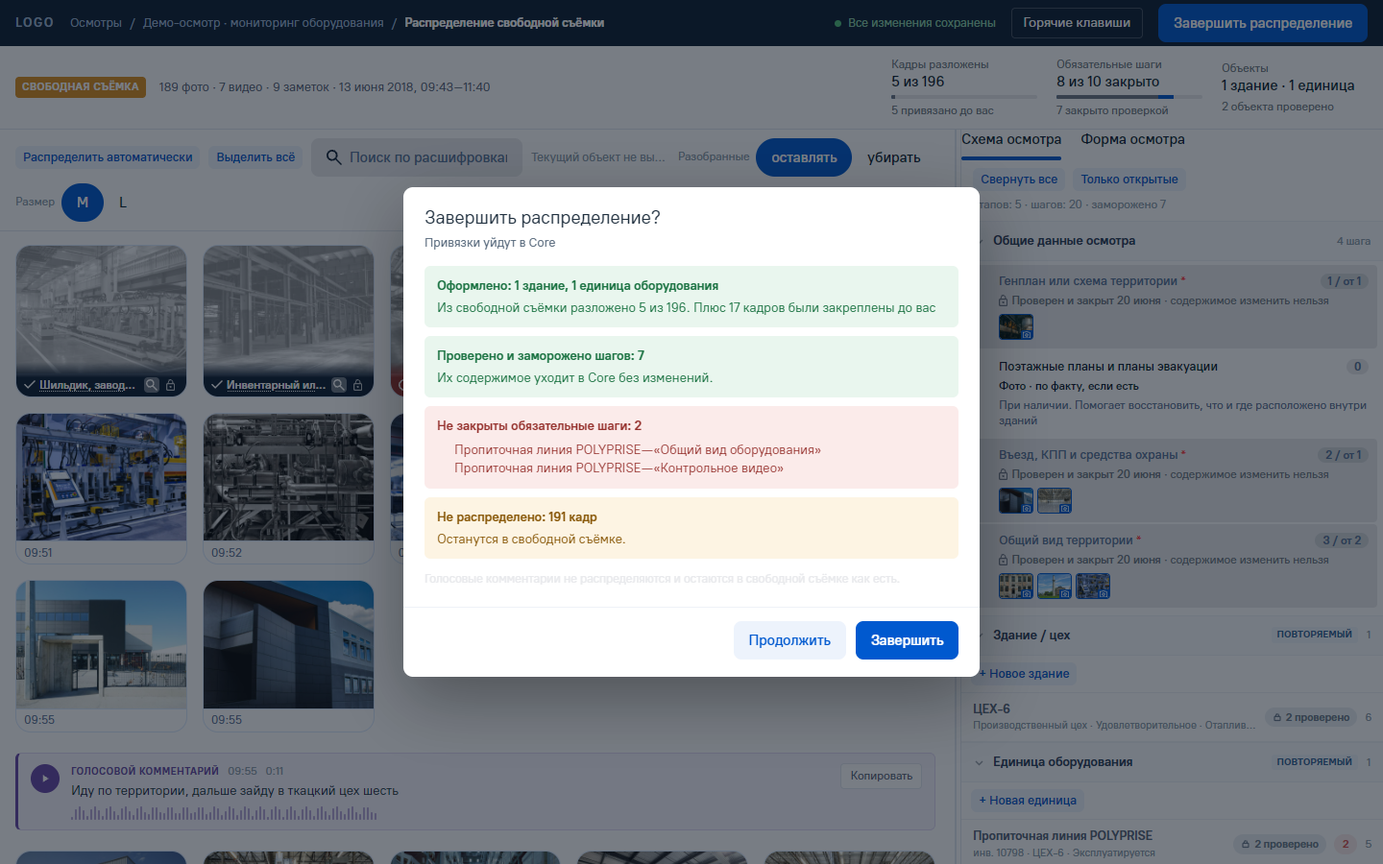
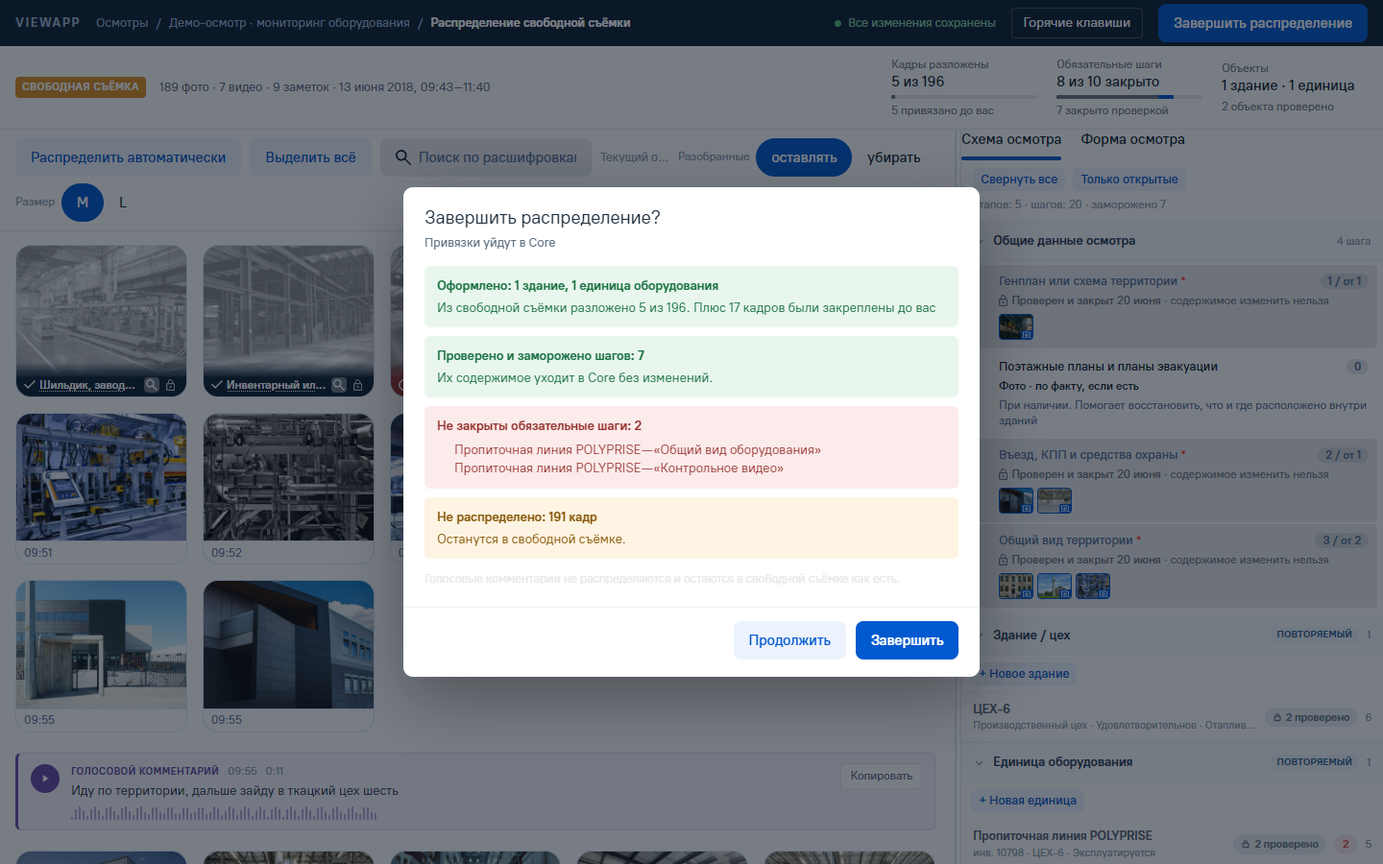
Такт 31, довесок: документы — провенанс «как есть», обезличивание сужено, прототип
- docs/sources/va-9265/va-9265-v17.html: «VIEWAPP» вместо «LOGO» (оба
  вхождения); «Демо-осмотр» и заглушки кадров остаются.
- free-shoot.md, naming.md: перенесённое как есть — легаси текущей админки,
  взятое через прототип v17; реестр читается как «что ещё на легаси»;
  правило «в одной строке контролов — одна высота»; строка итога о тулбаре
  — по замеру.
- Формулировки обезличивания сужены до имени клиента и кадров осмотра:
  free-shoot.md, naming.md, chat-protocol.md, handoff.md; themes.md и
  page-statuses.md — как до 9be8262.
- free-shoot-page-*.png пересняты.

Changed region(s): [[0.0, 0.0, 0.4688, 0.0311], [0.0312, 0.1556, 0.4688, 0.1867]]

diff --git a/docs/sources/va-9265/va-9265-v17.html b/docs/sources/va-9265/va-9265-v17.html
@@ -3,7 +3,7 @@
 <head>
 <meta charset="utf-8">
 <meta name="viewport" content="width=device-width,initial-scale=1">
-<title>LOGO · Распределение свободной съёмки</title>
+<title>VIEWAPP · Распределение свободной съёмки</title>
 <style>
 :root{
   --navy-900:#0E1E33;--navy-800:#1B2E47;--navy-700:#2B415A;--navy-600:#3A5578;
@@ -480,7 +480,7 @@ body.marq .card{cursor:crosshair}
 <body>
 <div class="app">
   <div class="topbar">
-    <span class="logo">LOGO</span>
+    <span class="logo">VIEWAPP</span>
     <div class="crumbs"><span>Осмотры</span><span>/</span><span>Демо-осмотр · мониторинг оборудования</span><span>/</span><b>Распределение свободной съёмки</b></div>
     <div style="flex:1"></div>
     <div class="saved" id="saveState"><span class="dot"></span><span>Все изменения сохранены</span></div>

diff --git a/docs/free-shoot.md b/docs/free-shoot.md
@@ -14,8 +14,7 @@
 **Прототип в репозитории — обезличенная копия**, решение владельца 2026-09-23; замеры части 1 сняты
 с исходной версии `c8aa1a0`, геометрия и стили в копии не менялись. В копии встроенные кадры
 (208 превью, 200×150 и четыре 150×200) заменены однотонными заглушками `#DEE5ED` той же пропорции,
-бренд-имя в логотипе и заголовке → «LOGO», имя клиента → «Демо-осмотр»; логика, разметка, CSS и
-остальные тексты те же.
+имя клиента → «Демо-осмотр»; логика, разметка, CSS и остальные тексты те же. «VIEWAPP» — название продукта, обезличивания не требует (решение владельца 2026-09-23, довесок такта 31).
 Скриншоты `free-shoot-*.png` и пары `free-shoot-pair-*.png` пересняты с копии под прежними именами.
 
 **Мастеров в Figma у этих компонентов нет.** Провенанс значения записывается как «прототип v17,
@@ -722,15 +721,15 @@ defineProps<{
 
 ### Довесок — изображения и обезличивание (решение владельца 2026-09-23)
 
-Репо остаётся публичным; боевые кадры осмотра, имя клиента и бренд в текущей версии не лежат.
+Репо остаётся публичным; боевые кадры осмотра и имя клиента в текущей версии не лежат. «VIEWAPP» — название продукта, обезличивания не требует (решение владельца 2026-09-23, довесок такта 31).
 Историю коммитов не переписывали.
 
 | Что | Сделано |
 |---|---|
 | кадры стенда `/free-shoot` и раздела `/compare` | 24 несвязные фотографии с Unsplash (Unsplash License), 800×600 — кроп `w=800&h=600&fit=crop` на стороне Unsplash; здания, цеха, склады, оборудование. Файлы `public/free-shoot/demo-01…24.jpg`, авторы и ссылки — `public/free-shoot/CREDITS.md`. Структура кадров — время, тип, длительность — по-прежнему из `window.VA_FRAMES`; кадру прототипа сопоставлен снимок по порядку, видео — фото-превью с признаком видео |
-| прототип `sources/va-9265/va-9265-v17.html` | обезличенная копия: 208 встроенных превью → однотонные JPEG `#DEE5ED` той же пропорции (200×150, четыре 150×200); бренд-имя → «LOGO», имя клиента → «Демо-осмотр». Проверено headless: три набора «Состояние осмотра» открываются и считают те же числа (208 / 196 / 196 кадров, в «Частично проверен» 7 замороженных шагов и 1 «Повторить»), автораспределение даёт 173 предложенных кадра и 44 объекта, полосу приёмки и сводку |
+| прототип `sources/va-9265/va-9265-v17.html` | обезличенная копия: 208 встроенных превью → однотонные JPEG `#DEE5ED` той же пропорции (200×150, четыре 150×200); имя клиента → «Демо-осмотр». Проверено headless: три набора «Состояние осмотра» открываются и считают те же числа (208 / 196 / 196 кадров, в «Частично проверен» 7 замороженных шагов и 1 «Повторить»), автораспределение даёт 173 предложенных кадра и 44 объекта, полосу приёмки и сводку |
 | скриншоты | `free-shoot-*.png` части 1 и пары `free-shoot-pair-*.png` пересняты с копии под прежними именами; скриншоты стенда `free-shoot-stand-*.png` — с новыми кадрами |
-| бренд-имя в коде кита | местозаполнитель логотипа в `admin.vue` и шапке «Моих осмотров» → «LOGO»; имя статусной модели на стенде «Статусы» и в `page-statuses.md` → «LOGO eng»; комментарий темы в `tailwind.css`, строка в `themes.md` |
+| название продукта | ~~замена «VIEWAPP» на «LOGO»~~ в `admin.vue`, шапке «Моих осмотров», модели «VIEWAPP eng», комментарии темы, `themes.md` и прототипе — **отменена довеском такта 31**: ошибка формулировки чата, «VIEWAPP» — название продукта, обезличивания не требует (решение владельца 2026-09-23, довесок такта 31) |
 
 Маршрута `/free-shoot/states` на момент довеска в коде не было — довесок применён к единственному стенду `/free-shoot`. С такта 31 матрицы живут на `/free-shoot/states`, экран — на `/free-shoot`.
 
@@ -744,6 +743,8 @@ defineProps<{
 по `naming.md`, при сомнении — как есть. Каждый перенесённый блок несёт `data-asis`; `?asis=mark`
 обводит их пунктиром с подписью.
 
+**Провенанс «как есть».** Перенесённое как есть — оформление текущей админки (легаси), взятое через прототип v17: прототип свёрстан в стилистике действующей админки. Реестр покрытия поэтому читается как «что на экране ещё на легаси»; строка «кит» или «новый» — уже на ките 2. Довесок к такту 31, решение владельца 2026-09-23.
+
 «Кит» — компонент, существовавший до такта 30; «новый» — компонент такта 30; «как есть» —
 разметка и CSS прототипа. «Не выведено» — элемент есть в спеке, на экране не показан: у него нет
 данных или его вызывает поведение, которого на стенде нет.
@@ -752,7 +753,7 @@ defineProps<{
 |---|---|---|---|---|
 | 1 | каркас экрана: шапка, подшапка, рабочая зона | §7, §1.5 | как есть | минимальная ширина 1280 — `min-w-320` |
 | 2 | шапка 48 | §7 | как есть | тёмная полоса прототипа |
-| 3 | логотип «LOGO» | §7 | как есть | местозаполнитель, как в `admin.vue` |
+| 3 | логотип «VIEWAPP» | §7 | как есть | местозаполнитель, как в `admin.vue` |
 | 4 | хлебные крошки | §7 | как есть | `Breadcrumb` кита — на светлой поверхности; подачи на тёмной шапке нет |
 | 5 | индикатор автосохранения | §17.2 | как есть | — |
 | 6 | «Горячие клавиши» | §7 | как есть | у `Button` нет подачи для тёмной поверхности |
@@ -765,9 +766,9 @@ defineProps<{
 | 13 | «Кадры разложены», «Обязательные шаги» | §7.1–7.2 | новый: `ProgressStat` + `Progress` | — |
 | 14 | «Объекты» | §7 | новый: `ProgressStat` | без полосы |
 | 15 | тулбар ленты: контейнер | §7 | как есть | — |
-| 16 | «Распределить автоматически» | §12 | кит: `Button` | фиолетовый акцент прототипа не перенесён — роль «действие» |
-| 17 | «Выделить всё» | §10.1 | кит: `Button` | — |
-| 18 | поиск | §8.6 | кит: `Input` | высота 40 против 28 прототипа — тулбар переносится во вторую строку |
+| 16 | «Распределить автоматически» | §12 | кит: `Button` | размер md 40 — одна высота со строкой тулбара; фиолетовый акцент прототипа не перенесён — роль «действие» |
+| 17 | «Выделить всё» | §10.1 | кит: `Button` | размер md 40 — одна высота со строкой тулбара |
+| 18 | поиск | §8.6 | кит: `Input` | высота 40, как у кнопок и `Tabs` pill той же строки |
 | 19 | индикатор текущего объекта | §7, §16.2 | как есть | — |
 | 20 | «Разобранные: оставлять / убирать» | §8.2 | кит: `Tabs` pill | роль «переключатель вида», прецедент «Списком / Карточками» |
 | 21 | размер превью M / L | §8.1 | кит: `Tabs` pill | то же |
@@ -832,6 +833,8 @@ defineProps<{
 ## 9. Итог такта 31
 
 Экран `/free-shoot` собран на данных набора «Частично проверен» обезличенного прототипа; матрицы
+
+**Провенанс «как есть».** Перенесённое как есть — оформление текущей админки (легаси), взятое через прототип v17: прототип свёрстан в стилистике действующей админки. Реестр покрытия (раздел 8) поэтому читается как «что на экране ещё на легаси»; строка «кит» или «новый» — уже на ките 2. Довесок к такту 31, решение владельца 2026-09-23.
 компонентов переехали на `/free-shoot/states`. Компоненты, токены и решения такта 30 взяты
 готовыми и не пересобирались. Бизнес-логики нет по прецеденту стендов; работают поведение
 компонентов кита, отметка выделения, переключатели вида и вкладки.
@@ -856,7 +859,7 @@ defineProps<{
 | утечка CSS прототипа в кит | правило `.grow input` рисовало рамку на внутреннем поле `Input` кита; закрыто хвостом `:not([data-slot] *)` у каждого правила | базовый слой проигрывает утилитам только в свойствах, которые утилита задаёт; рамку поле кита не задаёт |
 | раскрытый повтор | при загрузке раскрыт повтор оборудования, в режиме приёмки — первый предложенный | у прототипа после загрузки свёрнуто всё, и строк шагов не видно; это состояние интерфейса, не данных |
 | соответствие кадр → снимок | на экране — по номеру кадра прототипа по кругу 24, на `states` — по порядку списка стенда | у экрана 196 кадров, у `states` — 28 |
-| тулбар в две строки | `Input` кита 40 и `Tabs` pill выше контролов прототипа 28 | видимая разница размерных рядов — её и должен показать экран |
+| тулбар ленты в две строки | правило экрана «в одной строке контролов — одна высота»: кнопки `Button` md, корень `Input` и `Tabs` pill — все 40 (замер после довеска такта 31). На 1440 в первой строке кнопки, поиск и «Разобранные», во второй — «Размер»; на 1280 во вторую уходят оба переключателя. Полоса приёмки: обе кнопки `Button` sm 24, флажок — строка выбора 20 на той же оси (центры совпадают, 89) | контролы кита 40 шире и выше контролов прототипа 28: ширины ленты 990 и 830 на одну строку не хватает |
 | действия окон и плашек | как есть, без обработчиков | бизнес-логики нет |
 | рассинхрон гидрации | высоты волновой формы заметки округлены до 0.1 | сервер и браузер считали синус с разной точностью |
 | подчёркнутое имя объекта в плашке просмотра | как есть | в самом прототипе класс `.obj` у плашки совпадает с классом карточки повтора и наследует её нижнюю линию |

diff --git a/docs/handoff.md b/docs/handoff.md
@@ -70,8 +70,9 @@
 | **29, часть 1** — разбор: боковая модальная панель (Sheet) | документы | сборки нет, стоп-точка. Сняты мастер кита 1 `card` `817:34525` и шапка `modal_cards_header` `864:2747` (close/back), реализации дашборда «Настройка группы» (экран `30957:19544` — панель 642 у правого края во всю высоту, подложка `#000000` 40% литералом), «История изменений» `19751:28905` (прокручивается только тело, полоса `scroll_default` 16), «Настройка таблицы» `19848:46444`, «Экспорт в Excel» `32804:10032` (собран без компонентов кита). Дашборд связан с китом по ключам компонентов. Центрального окна у кита 1 нет — `Dialog` верен своему источнику (Атом `ModalWindow`), с мастером кита 1 не сравним. У Атома Sheet/Drawer нет. Токенов нет на радиус 48, тень 0/4/20 и подложку. Противоречие «кит — без подложки, дашборд — затемняет» — вопрос 35. Решений владельцу — 5. Разбор — `modal-family.md` |
 | **30, часть 1** — разбор: экран «Распределение свободной съёмки» (VA-9265) | документы | сборки нет, стоп-точка. Срочная задача для фронтенда; такт 29, часть 2 запаркован и идёт следом. Источники — прототип v17 и спека, редакция 1, закоммичены в `docs/sources/va-9265/`; мастеров в Figma нет, провенанс «прототип v17, <селектор>» или «спека §N». Замеры — headless Chrome по CDP, состояния выставлены функциями прототипа; 31 скриншот `free-shoot-*.png`. Разобраны `FrameTile`, `StepRow` + `StepThumb`, `ProgressStat` + новая `Progress`: матрицы, пересечение осей шага, токены, черновики API, тексты §18, граница компонента и страницы. Факты: `MediaGalleryItem` md 16:10 против 4:3 прототипа (срез 16.7%); белый текст ни на одной служебной роли кита не дотягивает до 4.5:1; `Progress` и `Command`/`Combobox` в коде не собраны — строки долга описывают дыры. Переполненный шаг: прототип против спеки — вопрос 36. Решений владельцу — 8. Разбор — `free-shoot.md` |
 | **30, часть 2** — сборка трёх компонентов и стенда `/free-shoot` | стенд `/free-shoot` + `/compare` + документы | все восемь решений владельца — по рекомендации разбора. `FrameTile` (`ui/frame-tile/`): `Image` 4:3, радиус 16 и `--muted` от `MediaGalleryItem` md, `Checkbox on-image`, `IconButton sm elevated` с `fullscreen`, плашка на тёмной ступени, сетка `frameTileGridVariants` 176/272 с промежутком 16. `StepRow` + `StepThumb` (`ui/step-row/`): наполненность из чисел, переполнение побеждает (вопрос 36 закрыт), пилюля на геометрии `Badge sm`, хвост «+N», вспышка по смене `flash`. `Progress` + `ProgressStat` (`ui/progress/`): первый прогресс кита, строка долга закрыта частично. Токены `--success-strong`/`--warning-strong`/`--destructive-strong` в обеих темах, `--opacity-dimmed`, `--duration-flash`; глифы `fullscreen`, `photo-camera`. Стенд: матрицы, оси 6 × 4, взаимодействие, фрагмент в сборе, примеры вызова в `<pre>`; оснастка `?state=link|flash|tooltip|drop` и проп `demoHover`. Отклонения от разбора — `free-shoot.md`, раздел 7. `/compare`: раздел без эталона, 137 иконок и 438 текстовых узлов (было 114 / 365), провалов нет. Решений владельцу — 0 |
-| **30, довесок** — обезличивание | стенд `/free-shoot`, `/compare`, источник, скриншоты | решение владельца 2026-09-23: репо публичное, боевые кадры, имя клиента и бренд в текущей версии не лежат; историю не переписывали. Кадры стенда — 24 фото с Unsplash 800×600 (`public/free-shoot/`, авторы в `CREDITS.md`), структура кадров — из `window.VA_FRAMES`. Прототип в `docs/sources/va-9265/` — обезличенная копия (208 превью → заглушки `#DEE5ED`, «LOGO», «Демо-осмотр»), три сценария и автораспределение проверены. Скриншоты части 1 и пары пересняты. Местозаполнитель логотипа в `admin.vue` и «Моих осмотрах» — «LOGO», статусная модель «LOGO eng». `grep` на бренд-имя заглавными и имя клиента — 0. Открыто: строчное имя темы `viewapp` — решение владельца |
+| **30, довесок** — обезличивание | стенд `/free-shoot`, `/compare`, источник, скриншоты | решение владельца 2026-09-23: репо публичное, боевые кадры и имя клиента в текущей версии не лежат; историю не переписывали. Кадры стенда — 24 фото с Unsplash 800×600 (`public/free-shoot/`, авторы в `CREDITS.md`), структура кадров — из `window.VA_FRAMES`. Прототип в `docs/sources/va-9265/` — обезличенная копия (208 превью → заглушки `#DEE5ED`, «Демо-осмотр»), три сценария и автораспределение проверены. Скриншоты части 1 и пары пересняты. `grep` на имя клиента — 0. Замена «VIEWAPP» на «LOGO» (логотип, модель «VIEWAPP eng», прототип) отменена довеском такта 31: название продукта обезличивать не требовалось |
 | **31** — экран «Распределение свободной съёмки» | `/free-shoot` (экран), `/free-shoot/states` (матрицы) | решение владельца 2026-09-23: экран целиком; компонент кита — где роль совпадает по `naming.md`, остальное — разметка и CSS прототипа как есть, чтобы видеть незакрытое. Матрицы такта 30 переехали на `/free-shoot/states` (`git mv`), фрагмент «в сборе» снят. Экран — на данных «Частично проверен» обезличенного прототипа; CSS прототипа — `app/stands/free-shoot/asis.css` (префикс `.va`, хвост `:not([data-slot] *)`, `--va-*`, `@layer base`), компоненты кита внутри — `.kit-island`; разметка окон снята с самого прототипа в `prototype-data.json`; каждый перенесённый блок — `data-asis`, `?asis=mark` обводит. Оснастка: `?state=link\|flash\|tooltip\|drop`, `?selected=demo`, `?open=assign\|viewer-*\|wand\|progress\|summary\|finish`, `?view=review`, `?tab=form`, `?asis=mark`. Реестр покрытия (`free-shoot.md`, раздел 8): 58 элементов, китом 23, как есть 35; рекомендация — «карточка повтора». Найдена и закрыта утечка CSS прототипа в `Input` кита. Демо-имена моделей — «Тестовая модель 1–3», «Тестовый тип». `/compare` без изменений: 137 / 438. Решений владельцу — 0 |
+| **31, довесок** — название, тулбар, подписи, провенанс | `/free-shoot` + документы | (решения владельца 2026-09-23): «VIEWAPP» возвращён — название продукта обезличивания не требовало, замена на «LOGO» была ошибкой формулировки чата; тулбар ленты — `Button` md, строка одной высоты 40 (кнопки, `Input`, `Tabs` pill); подписи `?asis=mark` вынесены над пунктиром; перенесённое как есть названо легаси текущей админки, взятым через прототип, — реестр покрытия читается как «что ещё на легаси». `/compare` 137 / 438, grep на имя клиента — 0 |
 
 ### Такт 20 закрыт: паттерн закреплён
 

diff --git a/docs/naming.md b/docs/naming.md
@@ -492,7 +492,7 @@ rososmotr своей поверхности под окно нет, и роль 
 License), 800×600, 4:3 — кроп на стороне Unsplash; файлы и авторы — `public/free-shoot/` и
 `CREDITS.md` там же. Структура кадров — время съёмки, тип, длительность, привязки — из
 `window.VA_FRAMES` прототипа; изображения прототипа в репозиторий не кладутся: репо публичное,
-боевые кадры осмотра, имя клиента и бренд в текущей версии не лежат (решение владельца 2026-09-23).
+боевые кадры осмотра и имя клиента в текущей версии не лежат (решение владельца 2026-09-23).
 Кадру-видео достаётся фото-превью с признаком видео. Как демо-логотипы такта 26.
 
 ### Такт 31: экран «Распределение свободной съёмки» и перенос «как есть»
@@ -501,6 +501,8 @@ License), 800×600, 4:3 — кроп на стороне Unsplash; файлы и
 |---|---|---|
 | `/free-shoot` | `app/pages/free-shoot/index.vue` | **экран** целиком по §7 спеки на данных набора «Частично проверен» обезличенного прототипа; тема `rososmotr`, без `admin.vue`, минимальная ширина 1280 |
 | `/free-shoot/states` | `app/pages/free-shoot/states.vue` | **матрицы** компонентов такта 30 и примеры вызова; фрагмент «в сборе» заменён экраном |
+
+**Провенанс «как есть».** Перенесённое как есть — оформление текущей админки (легаси), взятое через прототип v17: прототип свёрстан в стилистике действующей админки. Реестр покрытия в `free-shoot.md` поэтому читается как «что на экране ещё на легаси»; строка «кит» или «новый» — уже на ките 2. Довесок к такту 31, решение владельца 2026-09-23.
 
 Реестр покрытия экрана (58 элементов, кит / новый / как есть) и рекомендация следующей порции —
 `free-shoot.md`, раздел 8.
@@ -511,6 +513,7 @@ License), 800×600, 4:3 — кроп на стороне Unsplash; файлы и
 | **Перенесённый блок несёт `data-asis="<имя элемента>"`** | реестр и оснастка `?asis=mark` находят блок по атрибуту; имя — по-русски, как в реестре |
 | **CSS прототипа живёт в `app/stands/free-shoot/asis.css` и не протекает** | каждое правило под префиксом `.va` (обёртка `display: contents`) и с хвостом `:not([data-slot] *)`; переменные — `--va-*`; всё в `@layer base`, утилиты кита побеждают. Файл сгенерирован из `<style>` прототипа, руками не правится |
 | **Компонент кита внутри перенесённого блока — в `.kit-island`** | островок сбрасывает шрифт и цвет прототипа: компонент кита выглядит так же, как на любой другой странице |
+| **В одной строке контролов — одна высота** | правило экрана `/free-shoot`, довесок такта 31: кнопки тулбара ленты — `Button` md 40, как `Input` и `Tabs` pill рядом. Кнопки, стоящие в строке одни (инструменты панели), остаются sm |
 | **Разметка окон — снятая с прототипа** | `app/stands/free-shoot/prototype-data.json`: данные наборов и разметка окон, отрисованная функциями самого прототипа. Перерисовка окон вручную подменила бы «как есть» пересказом |
 
 **Оснастка приёмки экрана — не продукт.**

diff --git a/docs/chat-protocol.md b/docs/chat-protocol.md
@@ -365,14 +365,12 @@
   центру (иначе §9.7 недостижим), отступы на шкалу 4. Решений владельцу **0**.
 - `/compare`: раздел без эталона, **137 иконок, 438 текстовых узлов**, провалов нет.
 
-**Довесок — обезличивание** (решение владельца 2026-09-23: репо публичное, боевых кадров, имени
-клиента и бренда в текущей версии нет; историю не переписывали). Кадры стенда — 24 фото с Unsplash
+**Довесок — обезличивание** (решение владельца 2026-09-23: репо публичное, боевых кадров и имени
+клиента в текущей версии нет; историю не переписывали). Кадры стенда — 24 фото с Unsplash
 800×600, авторы в `public/free-shoot/CREDITS.md`; прототип в `docs/sources/` — обезличенная копия
-(заглушки `#DEE5ED`, «LOGO», «Демо-осмотр»), работоспособность проверена; скриншоты части 1 и пары
-пересняты. Местозаполнитель логотипа в `admin.vue` и «Моих осмотрах» — «LOGO». `grep` на бренд-имя
-заглавными и на имя клиента — ноль. **Открыто:** строчное имя темы `viewapp` осталось в
-`tailwind.css`, `docs/themes.md`, `docs/waves.md`, `zadanie-atom.md` и в зоне витрины (`AGENTS.md`,
-`app/pages/index.vue`) — решение владельца.
+(заглушки `#DEE5ED`, «Демо-осмотр»), работоспособность проверена; скриншоты части 1 и пары
+пересняты. `grep` на имя клиента — ноль. Замена «VIEWAPP» на «LOGO» отменена довеском такта 31:
+«VIEWAPP» — название продукта, обезличивать его не требовалось (ошибка формулировки чата).
 
 ### Такт 31 — экран «Распределение свободной съёмки» (закрыт)
 
@@ -392,6 +390,8 @@
 - Найдена и закрыта утечка: правило прототипа `.grow input` рисовало рамку внутри `Input` кита.
 - Демо-имена моделей на «Статусах» и тип на «Типах схем» — «Тестовая модель 1–3», «Тестовый тип».
 - `/compare` без изменений: 137 иконок, 438 текстовых узлов, провалов нет. Решений владельцу — 0.
+
+**Довесок такта 31** (решения владельца 2026-09-23): «VIEWAPP» возвращён — название продукта обезличивания не требовало, замена на «LOGO» была ошибкой формулировки чата; тулбар ленты — `Button` md, строка одной высоты 40 (кнопки, `Input`, `Tabs` pill); подписи `?asis=mark` вынесены над пунктиром; перенесённое как есть названо легаси текущей админки, взятым через прототип, — реестр покрытия читается как «что ещё на легаси».
 
 ### Второй конвейер
 

diff --git a/docs/page-statuses.md b/docs/page-statuses.md
@@ -95,7 +95,7 @@
 | 6 | Тестовая модель 1 | Альфа Страхование, Сбер, Согаз |
 | 7 | Тестовая модель 2 | Т-Страхование |
 | 8 | Тестовая модель 3 | Т-Страхование |
-| 9 | LOGO eng | Альфа Страхование |
+| 9 | VIEWAPP eng | Альфа Страхование |
 | 10 | Базовые статусы для Кассы | Альфа Страхование |
 | 11 | Домклик | ДомКлик |
 | 12 | Особый словарь | ВТБ, Альфа Страхование, РВИО·, Сбер, Согаз, УралСиб, Совкомбанк, комп·, 1 Схема·, ViktorTEST· |
